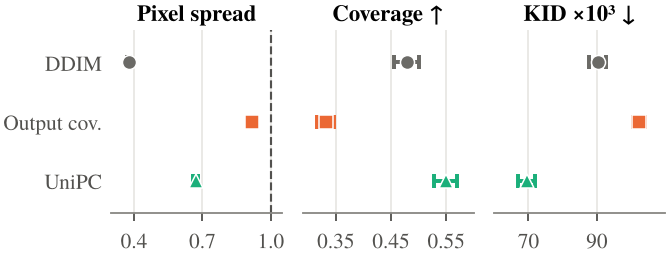
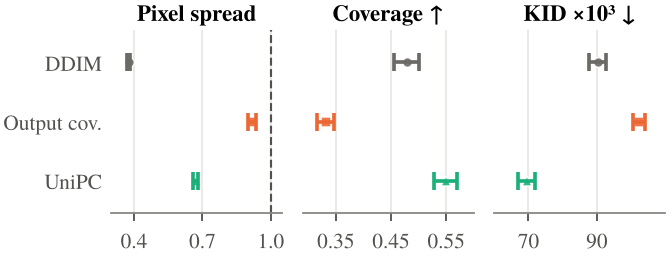
Figures 4 and 7: visible 95% whiskers (smaller markers, capped whiskers drawn on top)
Claude-Session: https://claude.ai/code/session_018SQHQxzFhjZSQS5zNxjQ8B

diff --git a/scripts/style.py b/scripts/style.py
@@ -74,9 +74,14 @@ def apply():
     })
 
 
-def ci(ax, y, est, lo, hi, color, marker="o", size=4.6, filled=True, lw=1.3, zorder=3):
-    """Horizontal estimate with a capped 95% interval."""
+def ci(ax, y, est, lo, hi, color, marker="o", size=4.6, filled=True, lw=1.3, zorder=3,
+       capsize=2.4, whisker_on_top=False):
+    """Horizontal estimate with a capped 95% interval. With whisker_on_top the capped
+    interval is drawn over the marker, so both caps stay visible even when the interval
+    is narrower than the marker."""
+    zw, zm = (zorder + 1, zorder) if whisker_on_top else (zorder, zorder + 1)
     ax.errorbar([est], [y], xerr=[[est - lo], [hi - est]], fmt="none", ecolor=color,
-                elinewidth=lw, capsize=2.4, capthick=lw, zorder=zorder)
+                elinewidth=lw, capsize=capsize, capthick=lw, zorder=zw)
     ax.plot([est], [y], marker=marker, ms=size, color=color, mfc=color if filled else "white",
-            mec=color if not filled else "white", mew=0.9 if not filled else 0.5, ls="none", zorder=zorder + 1)
+            mec=color if not filled else "white", mew=0.9 if not filled else 0.5, ls="none", zorder=zm,
+            alpha=0.9 if whisker_on_top and filled else 1.0)

diff --git a/scripts/fig_results.py b/scripts/fig_results.py
@@ -168,7 +168,7 @@ def fig_numerical():
             ax.grid(axis="y", visible=False)
         for i, (lab, est, lo, hi) in enumerate(rows):
             c, m = cols[lab]
-            S.ci(ax, i, est, lo, hi, c, marker=m)
+            S.ci(ax, i, est, lo, hi, c, marker=m, size=3.2, lw=1.2, capsize=3.0, whisker_on_top=True)
         if j == 0:
             ax.axvline(1.0, color=S.INK2, lw=0.7, ls="--", zorder=1)
         ax.set_xlim(*xlim)
@@ -270,7 +270,8 @@ def fig_t2i():
         ax.axvline(1.0, color=S.INK2, lw=0.7, ls="--", zorder=1)
         for i, (lab, est, lo, hi) in enumerate(rows):
             c, m = fam[lab.split(" /")[0]]
-            S.ci(ax, i, est, lo, hi, c, marker=m, filled=lab not in open_rows, size=4.2)
+            S.ci(ax, i, est, lo, hi, c, marker=m, filled=lab not in open_rows, size=3.2, lw=1.2,
+                 capsize=3.0, whisker_on_top=True)
         ax.set_xlim(0.3, 1.75)
         ax.xaxis.set_major_locator(FixedLocator([0.5, 1.0, 1.5]))
         ax.set_title(titles[key], loc="center", pad=3, fontsize=7.5)
